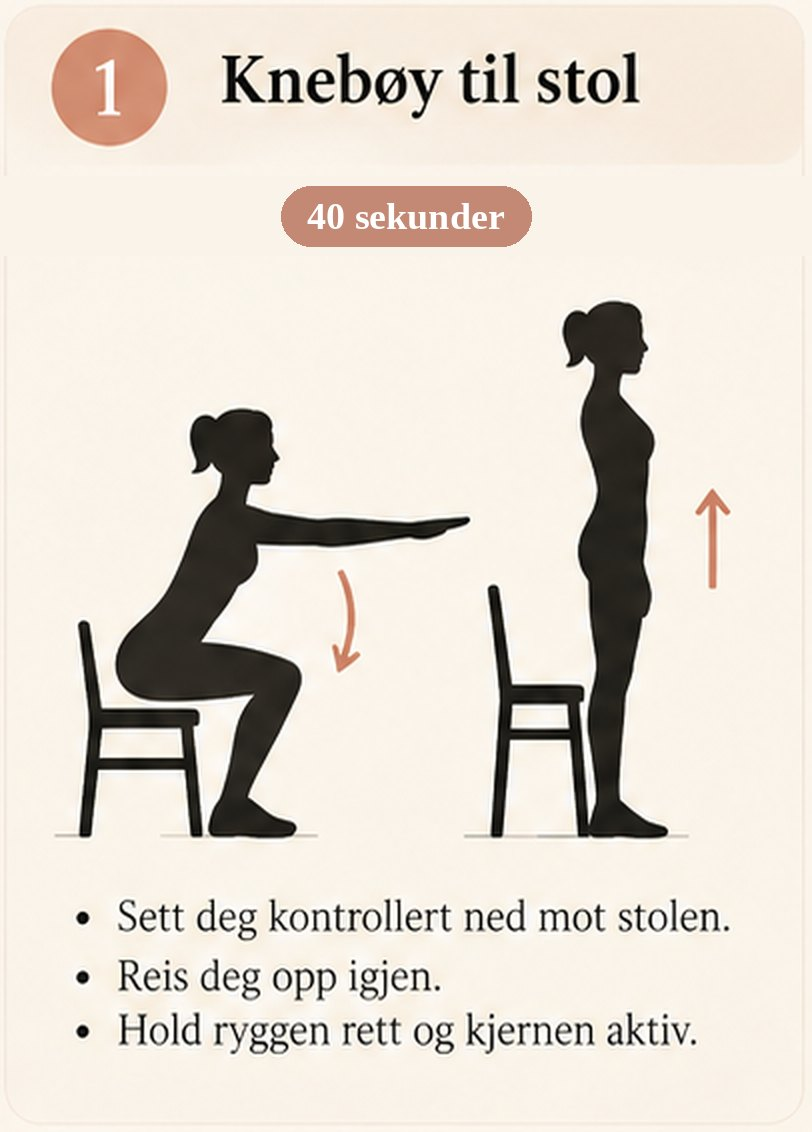
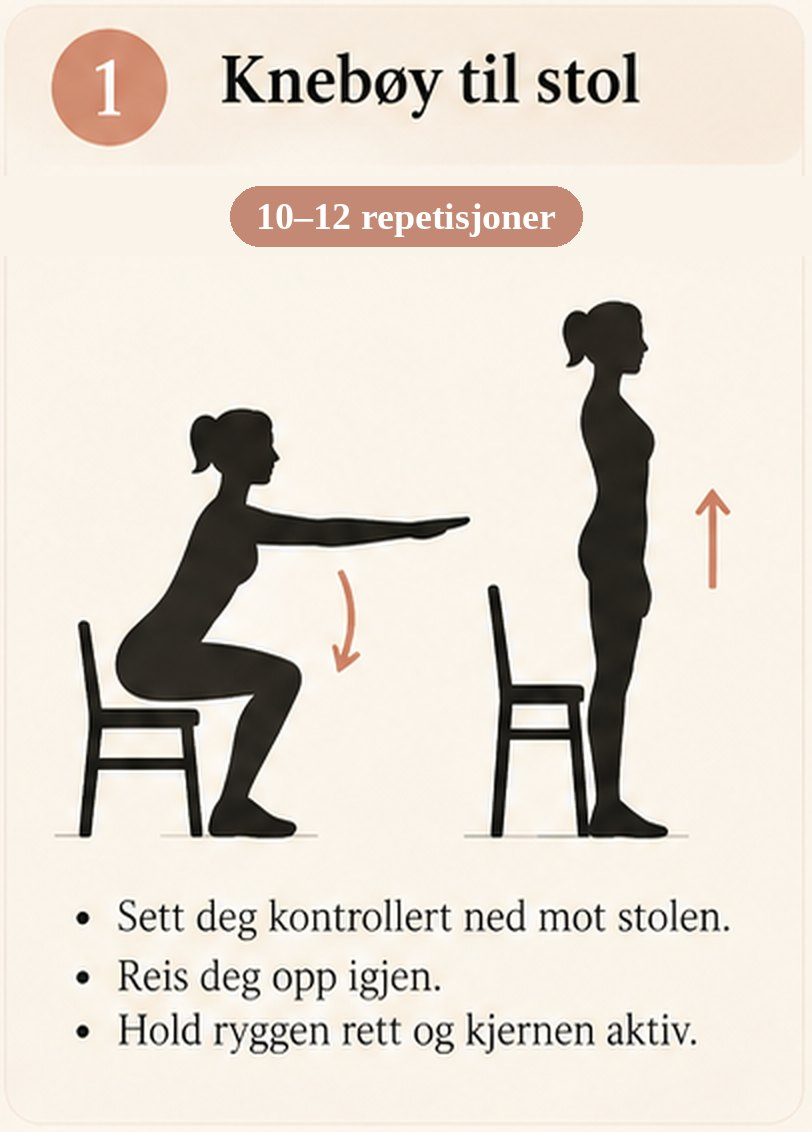
Bruk repetisjoner i stedet for 40 sekunder i minimumsprogrammet
Claude-Session: https://claude.ai/code/session_01X2hqnwX4CpRHrSCx7bqrG2

Changed region(s): [[0.2771, 0.1546, 0.7389, 0.2164]]

diff --git a/styrke-hjemme.html b/styrke-hjemme.html
@@ -377,15 +377,15 @@
     <h2>6–7 minutter: minimumsprogrammet</h2>
     <div class="meta">
       <p><strong>Utstyr:</strong> ingenting. Bare en stol og en vegg eller kjøkkenbenk.</p>
-      <p><strong>Slik gjør du det:</strong> 1 minutt oppvarming, så én runde med de fem øvelsene. 40 sekunder arbeid og ca. 20 sekunder til å hvile og bytte. Avslutt med litt rolig bevegelse og pust.</p>
+      <p><strong>Slik gjør du det:</strong> 1 minutt oppvarming, så én runde med de fem øvelsene. Antall repetisjoner står på hver øvelse. Gjør dem rolig og kontrollert, og ta en kort pause når du bytter øvelse. Avslutt med litt rolig bevegelse og pust.</p>
     </div>
     <div class="exercise-steps">
       <img src="images/styrke-mini-0-oppvarming.jpg?v=2" width="856" height="1052" loading="lazy" alt="Oppvarming i ett minutt: illustrasjon med silhuetter og forklaring av øvelsen.">
-      <img src="images/styrke-mini-1-kneboy.jpg?v=2" width="812" height="1132" loading="lazy" alt="Knebøy til stol: illustrasjon med silhuetter og forklaring av øvelsen.">
-      <img src="images/styrke-mini-2-armhevinger.jpg?v=2" width="848" height="1132" loading="lazy" alt="Armhevinger mot vegg eller kjøkkenbenk: illustrasjon med silhuetter og forklaring av øvelsen.">
-      <img src="images/styrke-mini-3-seteloft.jpg?v=2" width="856" height="1116" loading="lazy" alt="Seteløft: illustrasjon med silhuetter og forklaring av øvelsen.">
-      <img src="images/styrke-mini-4-birddog.jpg?v=2" width="812" height="1116" loading="lazy" alt="Bird dog: illustrasjon med silhuetter og forklaring av øvelsen.">
-      <img src="images/styrke-mini-5-deadbug.jpg?v=2" width="848" height="1116" loading="lazy" alt="Dead bug: illustrasjon med silhuetter og forklaring av øvelsen.">
+      <img src="images/styrke-mini-1-kneboy.jpg?v=4" width="812" height="1132" loading="lazy" alt="Knebøy til stol: illustrasjon med silhuetter og forklaring av øvelsen.">
+      <img src="images/styrke-mini-2-armhevinger.jpg?v=4" width="848" height="1132" loading="lazy" alt="Armhevinger mot vegg eller kjøkkenbenk: illustrasjon med silhuetter og forklaring av øvelsen.">
+      <img src="images/styrke-mini-3-seteloft.jpg?v=4" width="856" height="1116" loading="lazy" alt="Seteløft: illustrasjon med silhuetter og forklaring av øvelsen.">
+      <img src="images/styrke-mini-4-birddog.jpg?v=4" width="812" height="1116" loading="lazy" alt="Bird dog: illustrasjon med silhuetter og forklaring av øvelsen.">
+      <img src="images/styrke-mini-5-deadbug.jpg?v=4" width="848" height="1116" loading="lazy" alt="Dead bug: illustrasjon med silhuetter og forklaring av øvelsen.">
     </div>
   </section>
 
